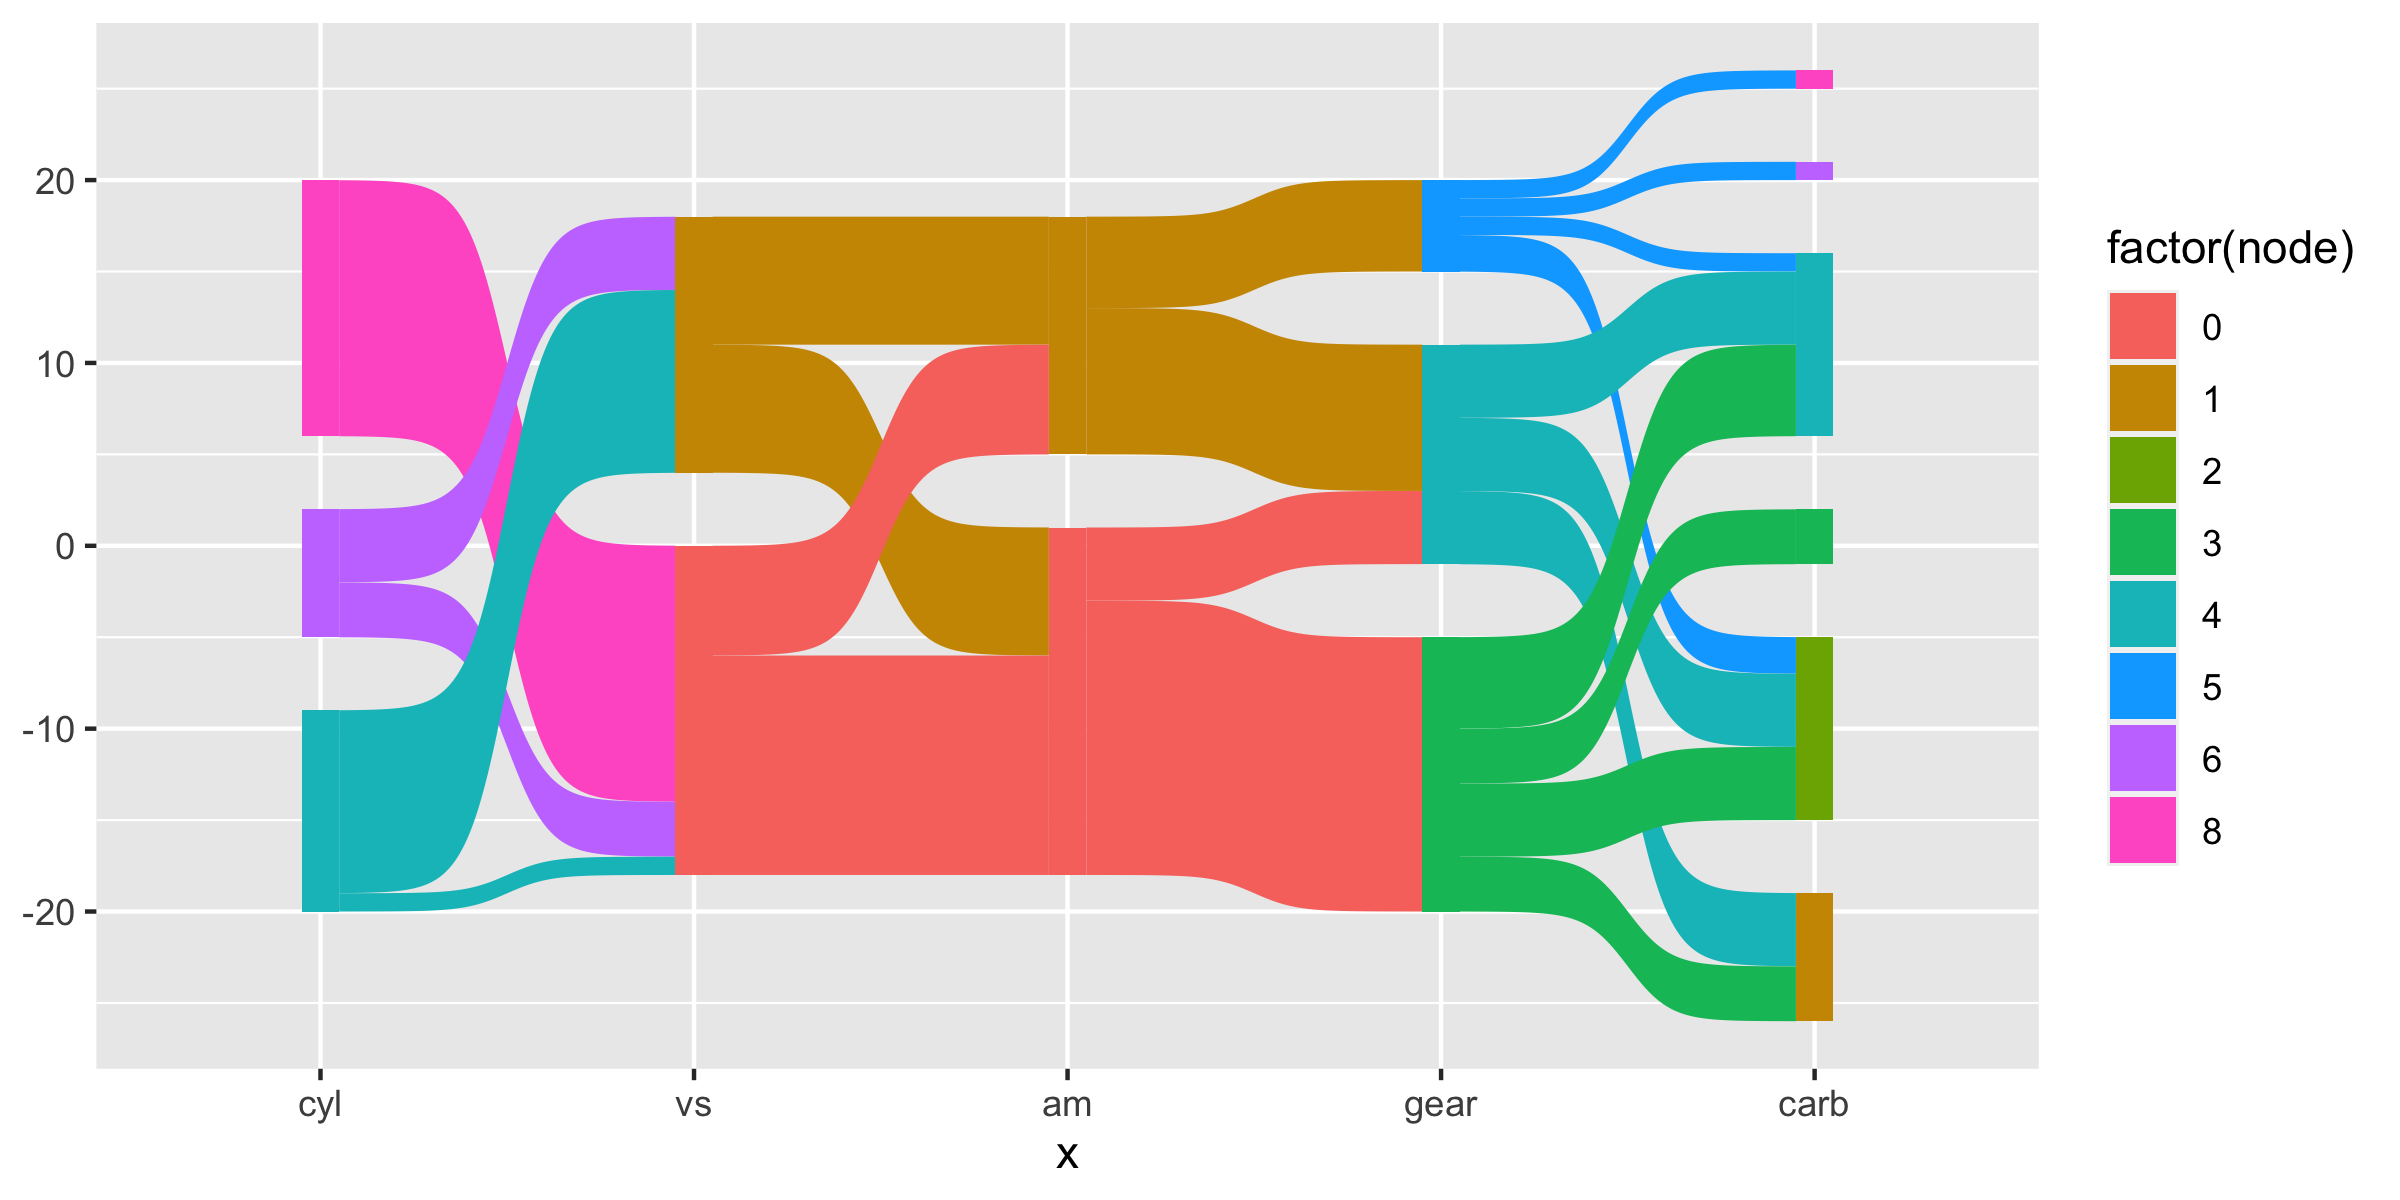
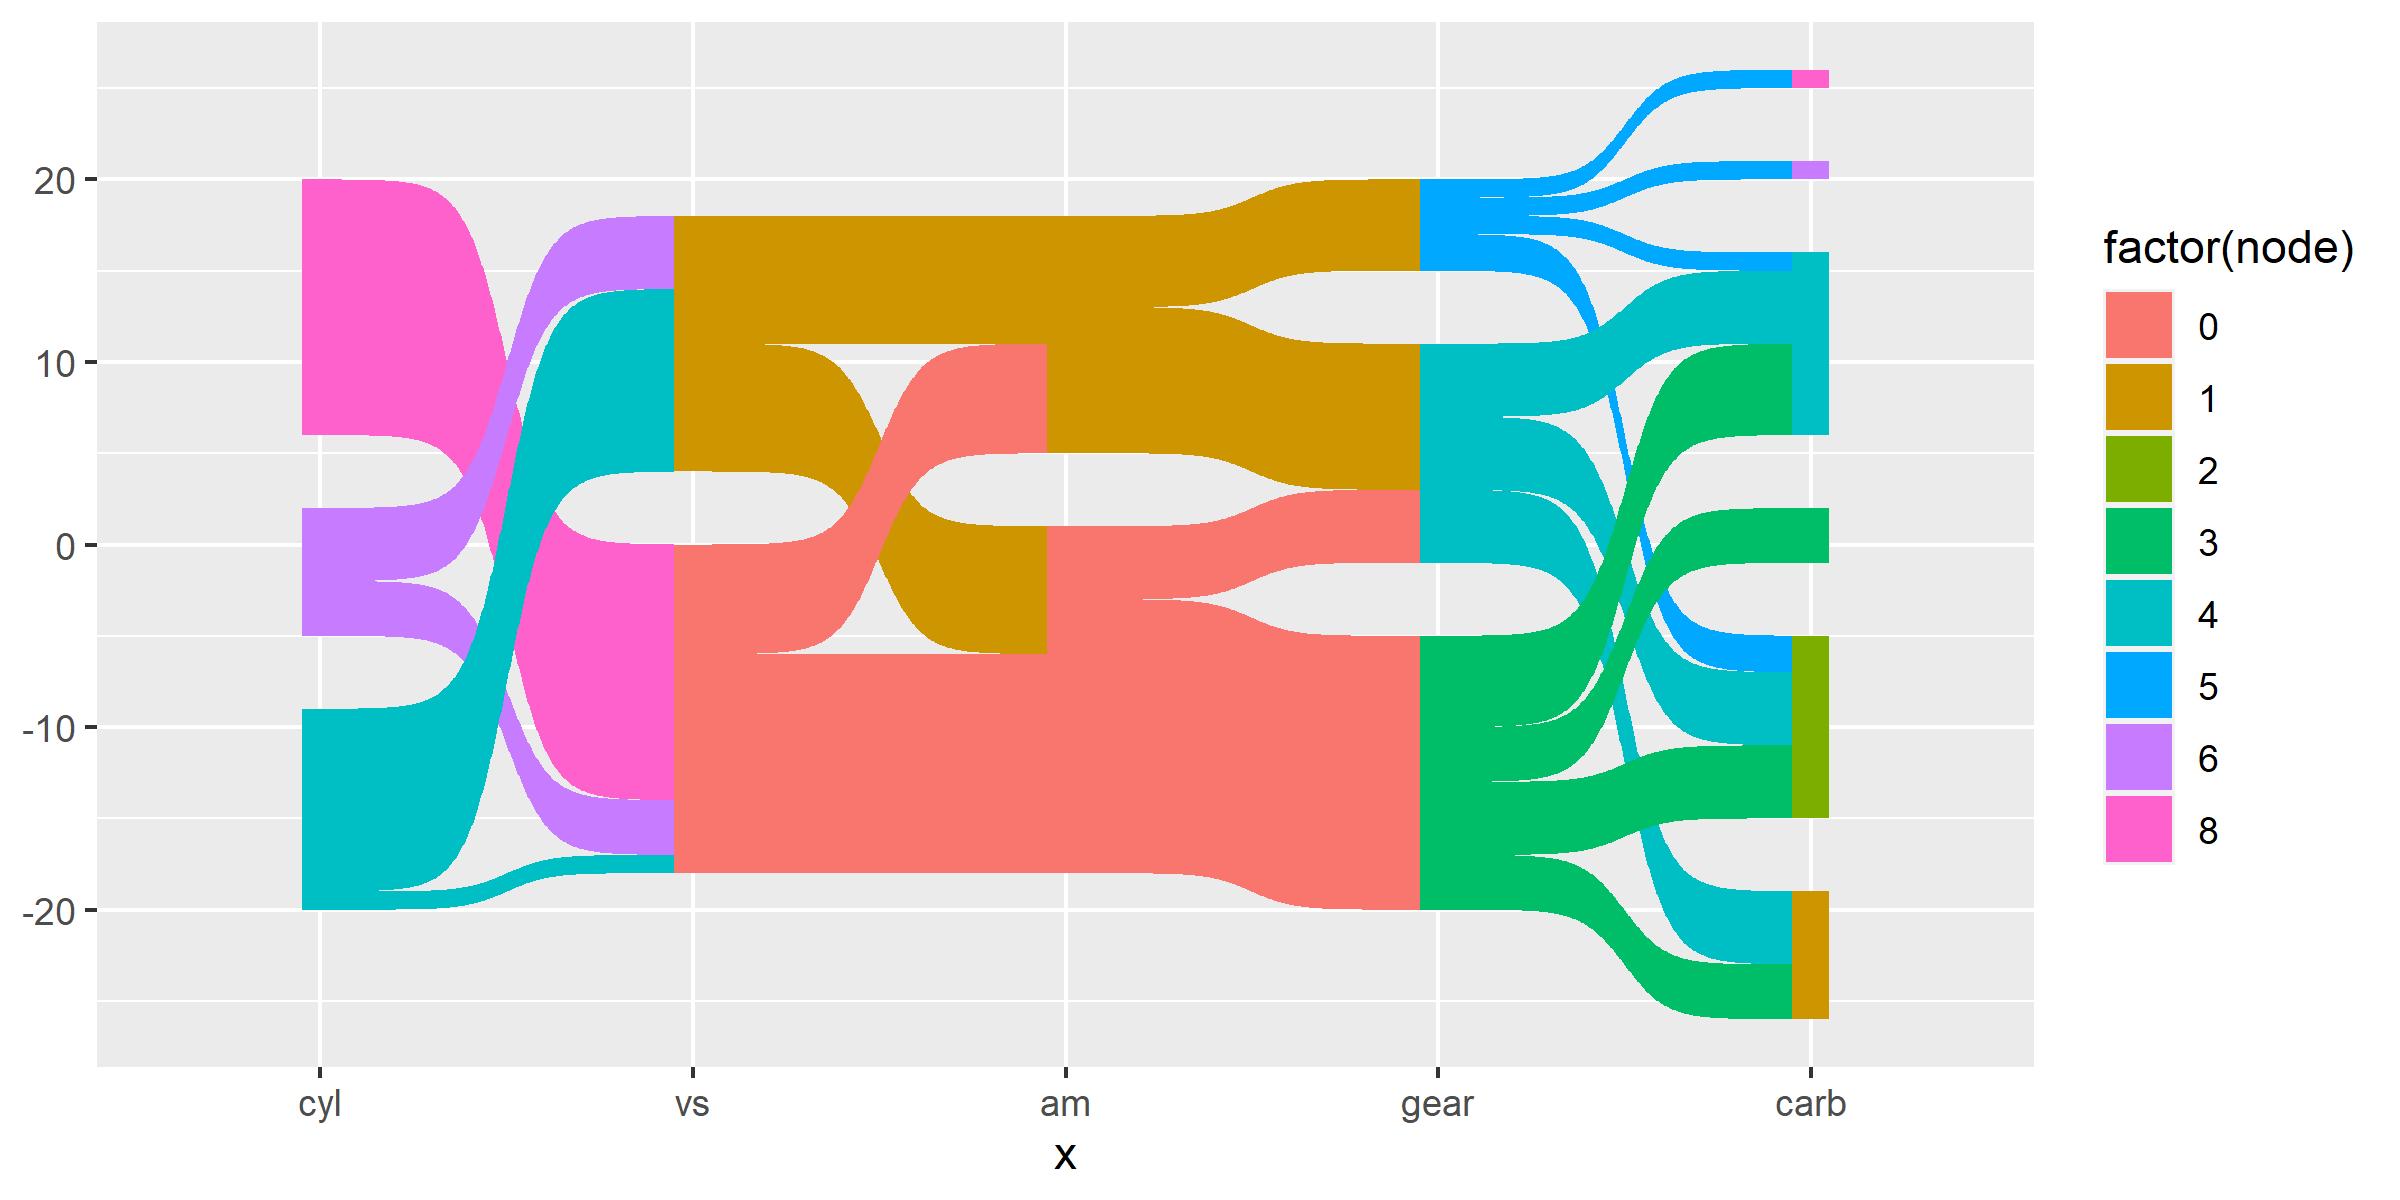
Workaround for changed colors in examples (dropped/reintroduced factor levels)

diff --git a/README.md b/README.md
@@ -72,7 +72,8 @@ ggplot(df, aes(x = x,
                node = node, 
                next_node = next_node,
                fill = factor(node))) +
-  geom_sankey()
+  geom_sankey() +
+  scale_fill_discrete(drop=FALSE)
 ```
 
 <img src="man/figures/README-example-1.png" width="100%" />
@@ -89,7 +90,7 @@ ggplot(df, aes(x = x, next_x = next_x, node = node, next_node = next_node, fill 
   geom_sankey(flow.alpha = .6,
               node.color = "gray30") +
   geom_sankey_label(size = 3, color = "white", fill = "gray40") +
-  scale_fill_viridis_d() +
+  scale_fill_viridis_d(drop = FALSE) +
   theme_sankey(base_size = 18) +
   labs(x = NULL) +
   theme(legend.position = "none",
@@ -109,7 +110,7 @@ x-axis.
 ggplot(df, aes(x = x, next_x = next_x, node = node, next_node = next_node, fill = factor(node), label = node)) +
   geom_alluvial(flow.alpha = .6) +
   geom_alluvial_text(size = 3, color = "white") +
-  scale_fill_viridis_d() +
+  scale_fill_viridis_d(drop = FALSE) +
   theme_alluvial(base_size = 18) +
   labs(x = NULL) +
   theme(legend.position = "none",
